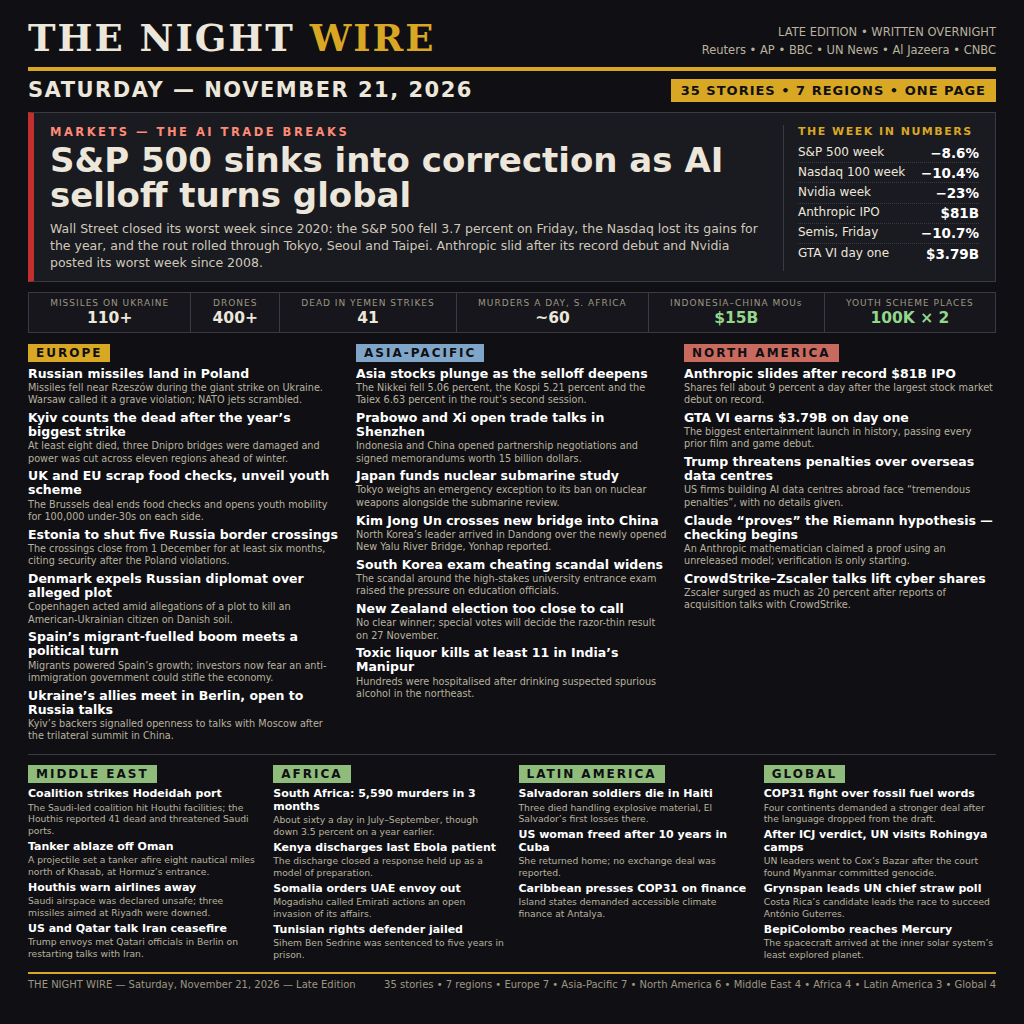
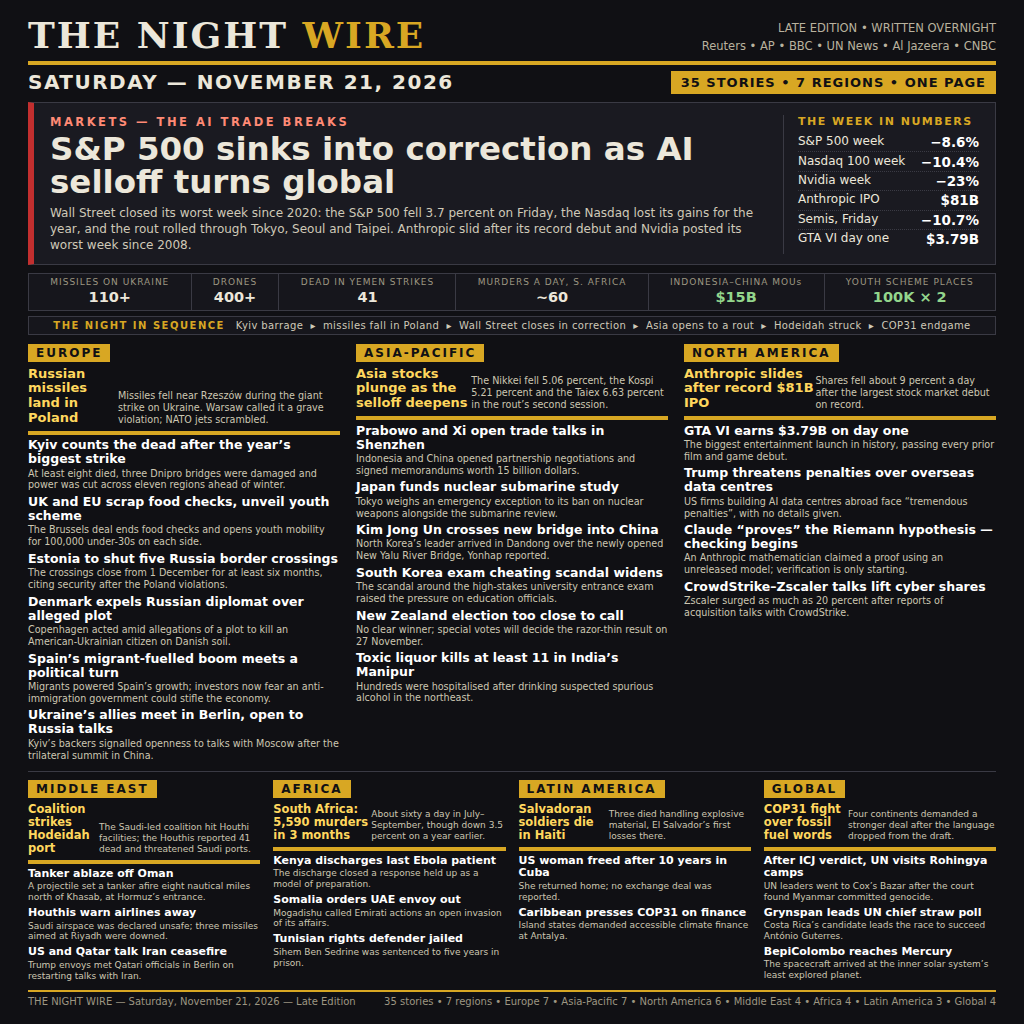
Gemini-critique fixes: one gold accent, brighter body text, per-region top headlines, night sequence strip

diff --git a/poster.html b/poster.html
@@ -9,43 +9,47 @@
     width: 1024px; height: 1024px; overflow: hidden;
     background: #101014; color: #ece7da;
     font-family: "DejaVu Sans", sans-serif;
-    padding: 16px 28px 10px 28px;
+    padding: 14px 28px 8px 28px;
   }
-  .top { display: flex; justify-content: space-between; align-items: flex-end; border-bottom: 4px solid #d8a723; padding-bottom: 7px; }
-  .brand { font-family: "DejaVu Serif", serif; font-weight: bold; font-size: 37px; letter-spacing: 2px; }
+  .top { display: flex; justify-content: space-between; align-items: flex-end; border-bottom: 4px solid #d8a723; padding-bottom: 5px; }
+  .brand { font-family: "DejaVu Serif", serif; font-weight: bold; font-size: 36px; letter-spacing: 2px; }
   .brand em { color: #d8a723; font-style: normal; }
   .top .meta { text-align: right; font-size: 11.5px; line-height: 1.55; color: #b9b29e; }
-  .datebar { display: flex; justify-content: space-between; align-items: center; margin-top: 7px; }
-  .datebar .d { font-weight: bold; font-size: 21px; letter-spacing: 1.5px; }
+  .datebar { display: flex; justify-content: space-between; align-items: center; margin-top: 5px; }
+  .datebar .d { font-weight: bold; font-size: 20px; letter-spacing: 1.5px; }
   .datebar .c { background: #d8a723; color: #101014; font-weight: bold; font-size: 13px; padding: 4px 10px; letter-spacing: 1px; }
-  .lead { margin-top: 10px; background: #1a1a21; border: 1px solid #3a3a44; border-left: 6px solid #c22f2f; padding: 12px 16px 10px 16px; display: flex; gap: 16px; }
+  .lead { margin-top: 8px; background: #1a1a21; border: 1px solid #3a3a44; border-left: 6px solid #c22f2f; padding: 12px 16px 10px 16px; display: flex; gap: 16px; }
   .lead .txt { flex: 1 1 auto; }
   .kicker { font-size: 11.5px; font-weight: bold; letter-spacing: 2.5px; color: #ff8a75; }
-  .lead h1 { font-size: 34px; line-height: 1.04; margin: 4px 0 6px 0; font-weight: bold; }
-  .lead p { font-size: 12.5px; line-height: 1.36; color: #cfc9b8; }
+  .lead h1 { font-size: 32.5px; line-height: 1.03; margin: 4px 0 6px 0; font-weight: bold; }
+  .lead p { font-size: 12px; line-height: 1.33; color: #cfc9b8; }
   .lead .nums { flex: 0 0 196px; border-left: 1px solid #3a3a44; padding-left: 14px; }
   .lead .nums h3 { font-size: 11px; letter-spacing: 1.5px; color: #d8a723; margin-bottom: 5px; }
-  .lead .nums .n { display: flex; justify-content: space-between; font-size: 12px; padding: 1.6px 0; border-bottom: 1px dotted #3a3a44; }
+  .lead .nums .n { display: flex; justify-content: space-between; font-size: 12px; padding: 1.2px 0; border-bottom: 1px dotted #3a3a44; }
   .lead .nums .n b { color: #fff; font-size: 13.5px; }
   .lead .nums .n:last-child { border-bottom: none; }
-  .strip { display: flex; margin-top: 10px; border: 1px solid #3a3a44; }
-  .strip div { flex: 1 1 auto; text-align: center; padding: 5px 2px; border-right: 1px solid #3a3a44; background: #16161c; }
+  .strip { display: flex; margin-top: 8px; border: 1px solid #3a3a44; }
+  .strip div { flex: 1 1 auto; text-align: center; padding: 3.5px 2px; border-right: 1px solid #3a3a44; background: #16161c; }
   .strip div:last-child { border-right: none; }
   .strip .l { display: block; font-size: 9px; letter-spacing: 1px; color: #9d9682; }
-  .strip .v { font-weight: bold; font-size: 15.5px; color: #ff8a75; }
+  .strip .v { font-weight: bold; font-size: 14.5px; color: #ff8a75; }
   .strip .g { color: #93d68c; }
-  .cols { display: grid; grid-template-columns: 1fr 1fr 1fr; gap: 0 16px; margin-top: 9px; }
-  .cols2 { display: grid; grid-template-columns: 1fr 1fr 1fr 1fr; gap: 0 13px; margin-top: 7px; border-top: 1px solid #3a3a44; padding-top: 8px; }
+  .cols { display: grid; grid-template-columns: 1fr 1fr 1fr; gap: 0 16px; margin-top: 7px; }
+  .cols2 { display: grid; grid-template-columns: 1fr 1fr 1fr 1fr; gap: 0 13px; margin-top: 6px; border-top: 1px solid #3a3a44; padding-top: 6px; }
   .reg h2 { font-size: 12px; letter-spacing: 2px; color: #101014; background: #d8a723; display: inline-block; padding: 2px 8px; margin-bottom: 5px; }
-  .reg.alt h2 { background: #7fa6c9; }
-  .reg.red h2 { background: #c96a5e; }
-  .reg.grn h2 { background: #8fbc7a; }
-  .st { margin-bottom: 4.5px; }
+  .reg.alt h2 { background: #d8a723; }
+  .reg.red h2 { background: #d8a723; }
+  .reg.grn h2 { background: #d8a723; }
+  .st { margin-bottom: 3.8px; }
   .st h4 { font-size: 12.5px; line-height: 1.13; color: #fff; }
-  .st p { font-size: 9.7px; line-height: 1.27; color: #b9b29e; margin-top: 1px; }
+  .st p { font-size: 9.6px; line-height: 1.24; color: #cdc7b2; margin-top: 1px; }
   .cols2 .st h4 { font-size: 11px; }
-  .cols2 .st p { font-size: 9.2px; line-height: 1.26; }
-  .foot { margin-top: 7px; border-top: 2px solid #d8a723; padding-top: 5px; display: flex; justify-content: space-between; font-size: 10px; color: #9d9682; }
+  .cols2 .st p { font-size: 9px; line-height: 1.22; }
+  .st.top h4 { font-size: 13px; color: #ffd75e; }
+  .cols2 .st.top h4 { font-size: 11.5px; }
+  .seq { margin-top: 5px; border: 1px solid #3a3a44; background: #16161c; padding: 3px 10px; font-size: 10px; letter-spacing: 0.4px; color: #cfc9b8; text-align: center; }
+  .seq b { color: #d8a723; letter-spacing: 1.5px; }
+  .foot { margin-top: 5px; border-top: 2px solid #d8a723; padding-top: 4px; display: flex; justify-content: space-between; font-size: 10px; color: #9d9682; }
 </style>
 </head>
 <body>
@@ -84,10 +88,12 @@
     <div><span class="l">YOUTH SCHEME PLACES</span><span class="v g">100K &times; 2</span></div>
   </div>
 
+  <div class="seq"><b>THE NIGHT IN SEQUENCE</b> &nbsp; Kyiv barrage &nbsp;&#9656;&nbsp; missiles fall in Poland &nbsp;&#9656;&nbsp; Wall Street closes in correction &nbsp;&#9656;&nbsp; Asia opens to a rout &nbsp;&#9656;&nbsp; Hodeidah struck &nbsp;&#9656;&nbsp; COP31 endgame</div>
+
   <div class="cols">
     <div class="reg">
       <h2>EUROPE</h2>
-      <div class="st"><h4>Russian missiles land in Poland</h4><p>Missiles fell near Rzesz&oacute;w during the giant strike on Ukraine. Warsaw called it a grave violation; NATO jets scrambled.</p></div>
+      <div class="st top"><h4>Russian missiles land in Poland</h4><p>Missiles fell near Rzesz&oacute;w during the giant strike on Ukraine. Warsaw called it a grave violation; NATO jets scrambled.</p></div>
       <div class="st"><h4>Kyiv counts the dead after the year&rsquo;s biggest strike</h4><p>At least eight died, three Dnipro bridges were damaged and power was cut across eleven regions ahead of winter.</p></div>
       <div class="st"><h4>UK and EU scrap food checks, unveil youth scheme</h4><p>The Brussels deal ends food checks and opens youth mobility for 100,000 under-30s on each side.</p></div>
       <div class="st"><h4>Estonia to shut five Russia border crossings</h4><p>The crossings close from 1 December for at least six months, citing security after the Poland violations.</p></div>
@@ -97,7 +103,7 @@
     </div>
     <div class="reg alt">
       <h2>ASIA-PACIFIC</h2>
-      <div class="st"><h4>Asia stocks plunge as the selloff deepens</h4><p>The Nikkei fell 5.06 percent, the Kospi 5.21 percent and the Taiex 6.63 percent in the rout&rsquo;s second session.</p></div>
+      <div class="st top"><h4>Asia stocks plunge as the selloff deepens</h4><p>The Nikkei fell 5.06 percent, the Kospi 5.21 percent and the Taiex 6.63 percent in the rout&rsquo;s second session.</p></div>
       <div class="st"><h4>Prabowo and Xi open trade talks in Shenzhen</h4><p>Indonesia and China opened partnership negotiations and signed memorandums worth 15 billion dollars.</p></div>
       <div class="st"><h4>Japan funds nuclear submarine study</h4><p>Tokyo weighs an emergency exception to its ban on nuclear weapons alongside the submarine review.</p></div>
       <div class="st"><h4>Kim Jong Un crosses new bridge into China</h4><p>North Korea&rsquo;s leader arrived in Dandong over the newly opened New Yalu River Bridge, Yonhap reported.</p></div>
@@ -107,7 +113,7 @@
     </div>
     <div class="reg red">
       <h2>NORTH AMERICA</h2>
-      <div class="st"><h4>Anthropic slides after record $81B IPO</h4><p>Shares fell about 9 percent a day after the largest stock market debut on record.</p></div>
+      <div class="st top"><h4>Anthropic slides after record $81B IPO</h4><p>Shares fell about 9 percent a day after the largest stock market debut on record.</p></div>
       <div class="st"><h4>GTA VI earns $3.79B on day one</h4><p>The biggest entertainment launch in history, passing every prior film and game debut.</p></div>
       <div class="st"><h4>Trump threatens penalties over overseas data centres</h4><p>US firms building AI data centres abroad face &ldquo;tremendous penalties&rdquo;, with no details given.</p></div>
       <div class="st"><h4>Claude &ldquo;proves&rdquo; the Riemann hypothesis &mdash; checking begins</h4><p>An Anthropic mathematician claimed a proof using an unreleased model; verification is only starting.</p></div>
@@ -118,27 +124,27 @@
   <div class="cols2">
     <div class="reg grn">
       <h2>MIDDLE EAST</h2>
-      <div class="st"><h4>Coalition strikes Hodeidah port</h4><p>The Saudi-led coalition hit Houthi facilities; the Houthis reported 41 dead and threatened Saudi ports.</p></div>
+      <div class="st top"><h4>Coalition strikes Hodeidah port</h4><p>The Saudi-led coalition hit Houthi facilities; the Houthis reported 41 dead and threatened Saudi ports.</p></div>
       <div class="st"><h4>Tanker ablaze off Oman</h4><p>A projectile set a tanker afire eight nautical miles north of Khasab, at Hormuz&rsquo;s entrance.</p></div>
       <div class="st"><h4>Houthis warn airlines away</h4><p>Saudi airspace was declared unsafe; three missiles aimed at Riyadh were downed.</p></div>
       <div class="st"><h4>US and Qatar talk Iran ceasefire</h4><p>Trump envoys met Qatari officials in Berlin on restarting talks with Iran.</p></div>
     </div>
     <div class="reg grn">
       <h2>AFRICA</h2>
-      <div class="st"><h4>South Africa: 5,590 murders in 3 months</h4><p>About sixty a day in July&ndash;September, though down 3.5 percent on a year earlier.</p></div>
+      <div class="st top"><h4>South Africa: 5,590 murders in 3 months</h4><p>About sixty a day in July&ndash;September, though down 3.5 percent on a year earlier.</p></div>
       <div class="st"><h4>Kenya discharges last Ebola patient</h4><p>The discharge closed a response held up as a model of preparation.</p></div>
       <div class="st"><h4>Somalia orders UAE envoy out</h4><p>Mogadishu called Emirati actions an open invasion of its affairs.</p></div>
       <div class="st"><h4>Tunisian rights defender jailed</h4><p>Sihem Ben Sedrine was sentenced to five years in prison.</p></div>
     </div>
     <div class="reg grn">
       <h2>LATIN AMERICA</h2>
-      <div class="st"><h4>Salvadoran soldiers die in Haiti</h4><p>Three died handling explosive material, El Salvador&rsquo;s first losses there.</p></div>
+      <div class="st top"><h4>Salvadoran soldiers die in Haiti</h4><p>Three died handling explosive material, El Salvador&rsquo;s first losses there.</p></div>
       <div class="st"><h4>US woman freed after 10 years in Cuba</h4><p>She returned home; no exchange deal was reported.</p></div>
       <div class="st"><h4>Caribbean presses COP31 on finance</h4><p>Island states demanded accessible climate finance at Antalya.</p></div>
     </div>
     <div class="reg grn">
       <h2>GLOBAL</h2>
-      <div class="st"><h4>COP31 fight over fossil fuel words</h4><p>Four continents demanded a stronger deal after the language dropped from the draft.</p></div>
+      <div class="st top"><h4>COP31 fight over fossil fuel words</h4><p>Four continents demanded a stronger deal after the language dropped from the draft.</p></div>
       <div class="st"><h4>After ICJ verdict, UN visits Rohingya camps</h4><p>UN leaders went to Cox&rsquo;s Bazar after the court found Myanmar committed genocide.</p></div>
       <div class="st"><h4>Grynspan leads UN chief straw poll</h4><p>Costa Rica&rsquo;s candidate leads the race to succeed Ant&oacute;nio Guterres.</p></div>
       <div class="st"><h4>BepiColombo reaches Mercury</h4><p>The spacecraft arrived at the inner solar system&rsquo;s least explored planet.</p></div>
